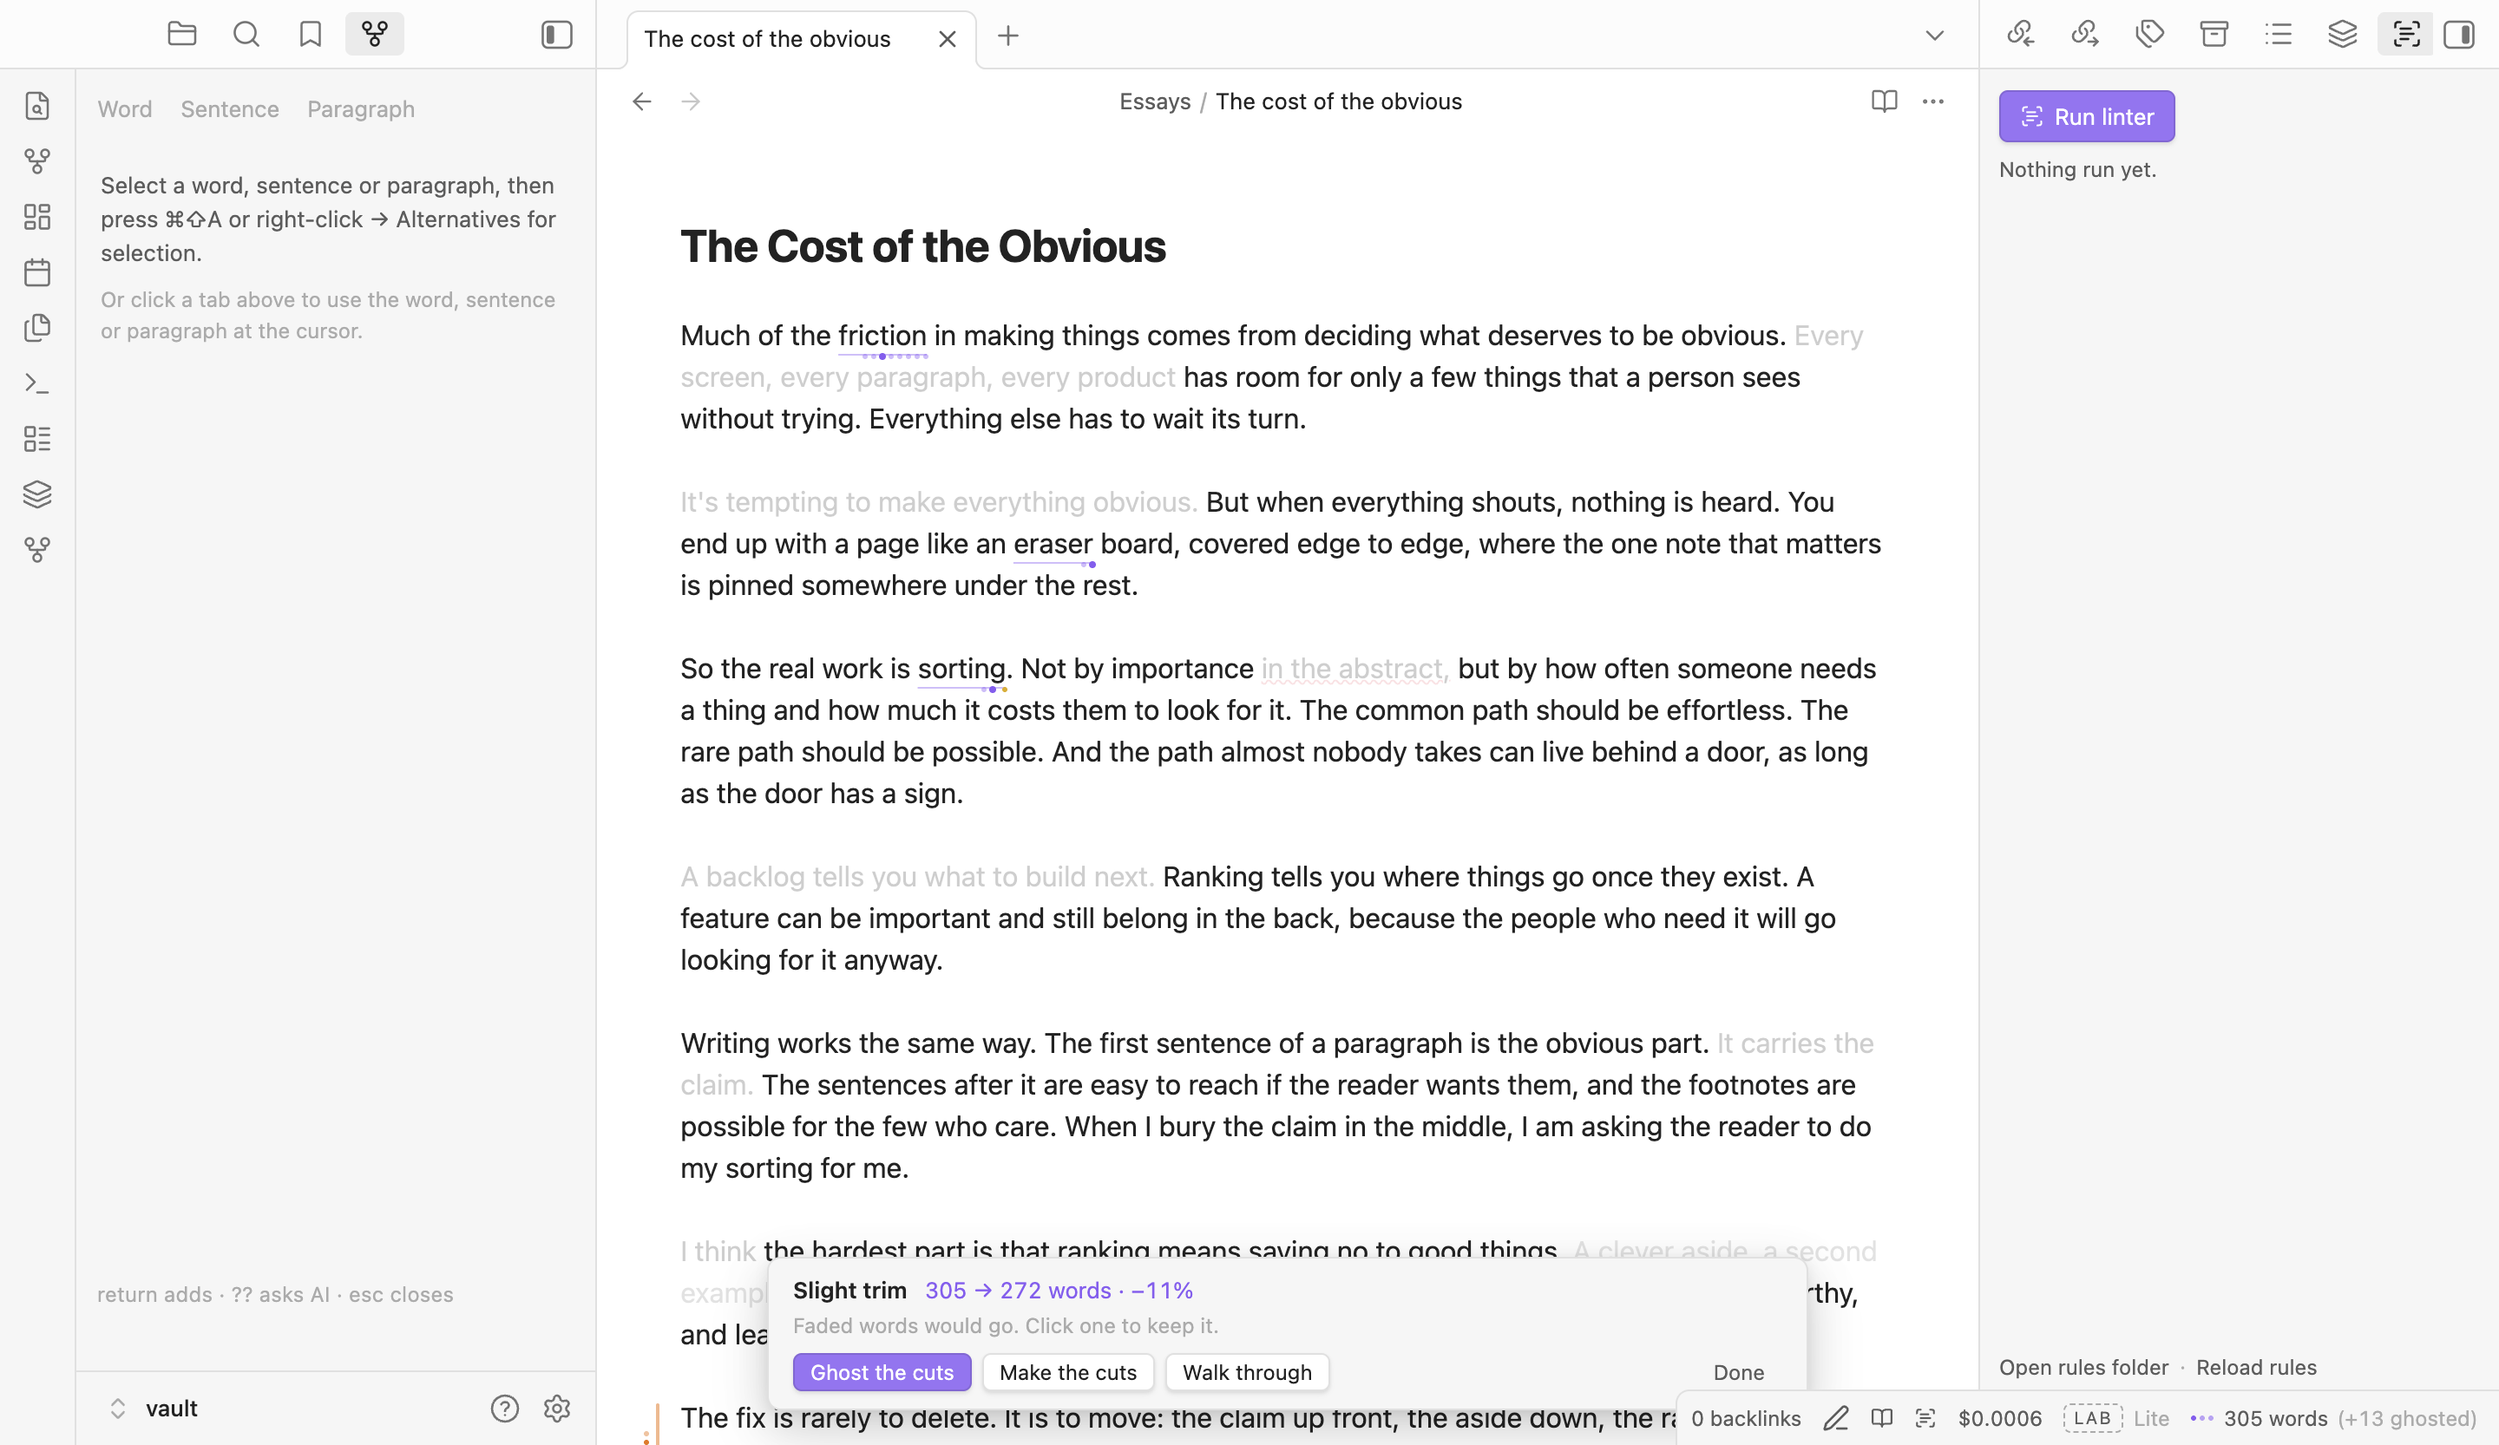
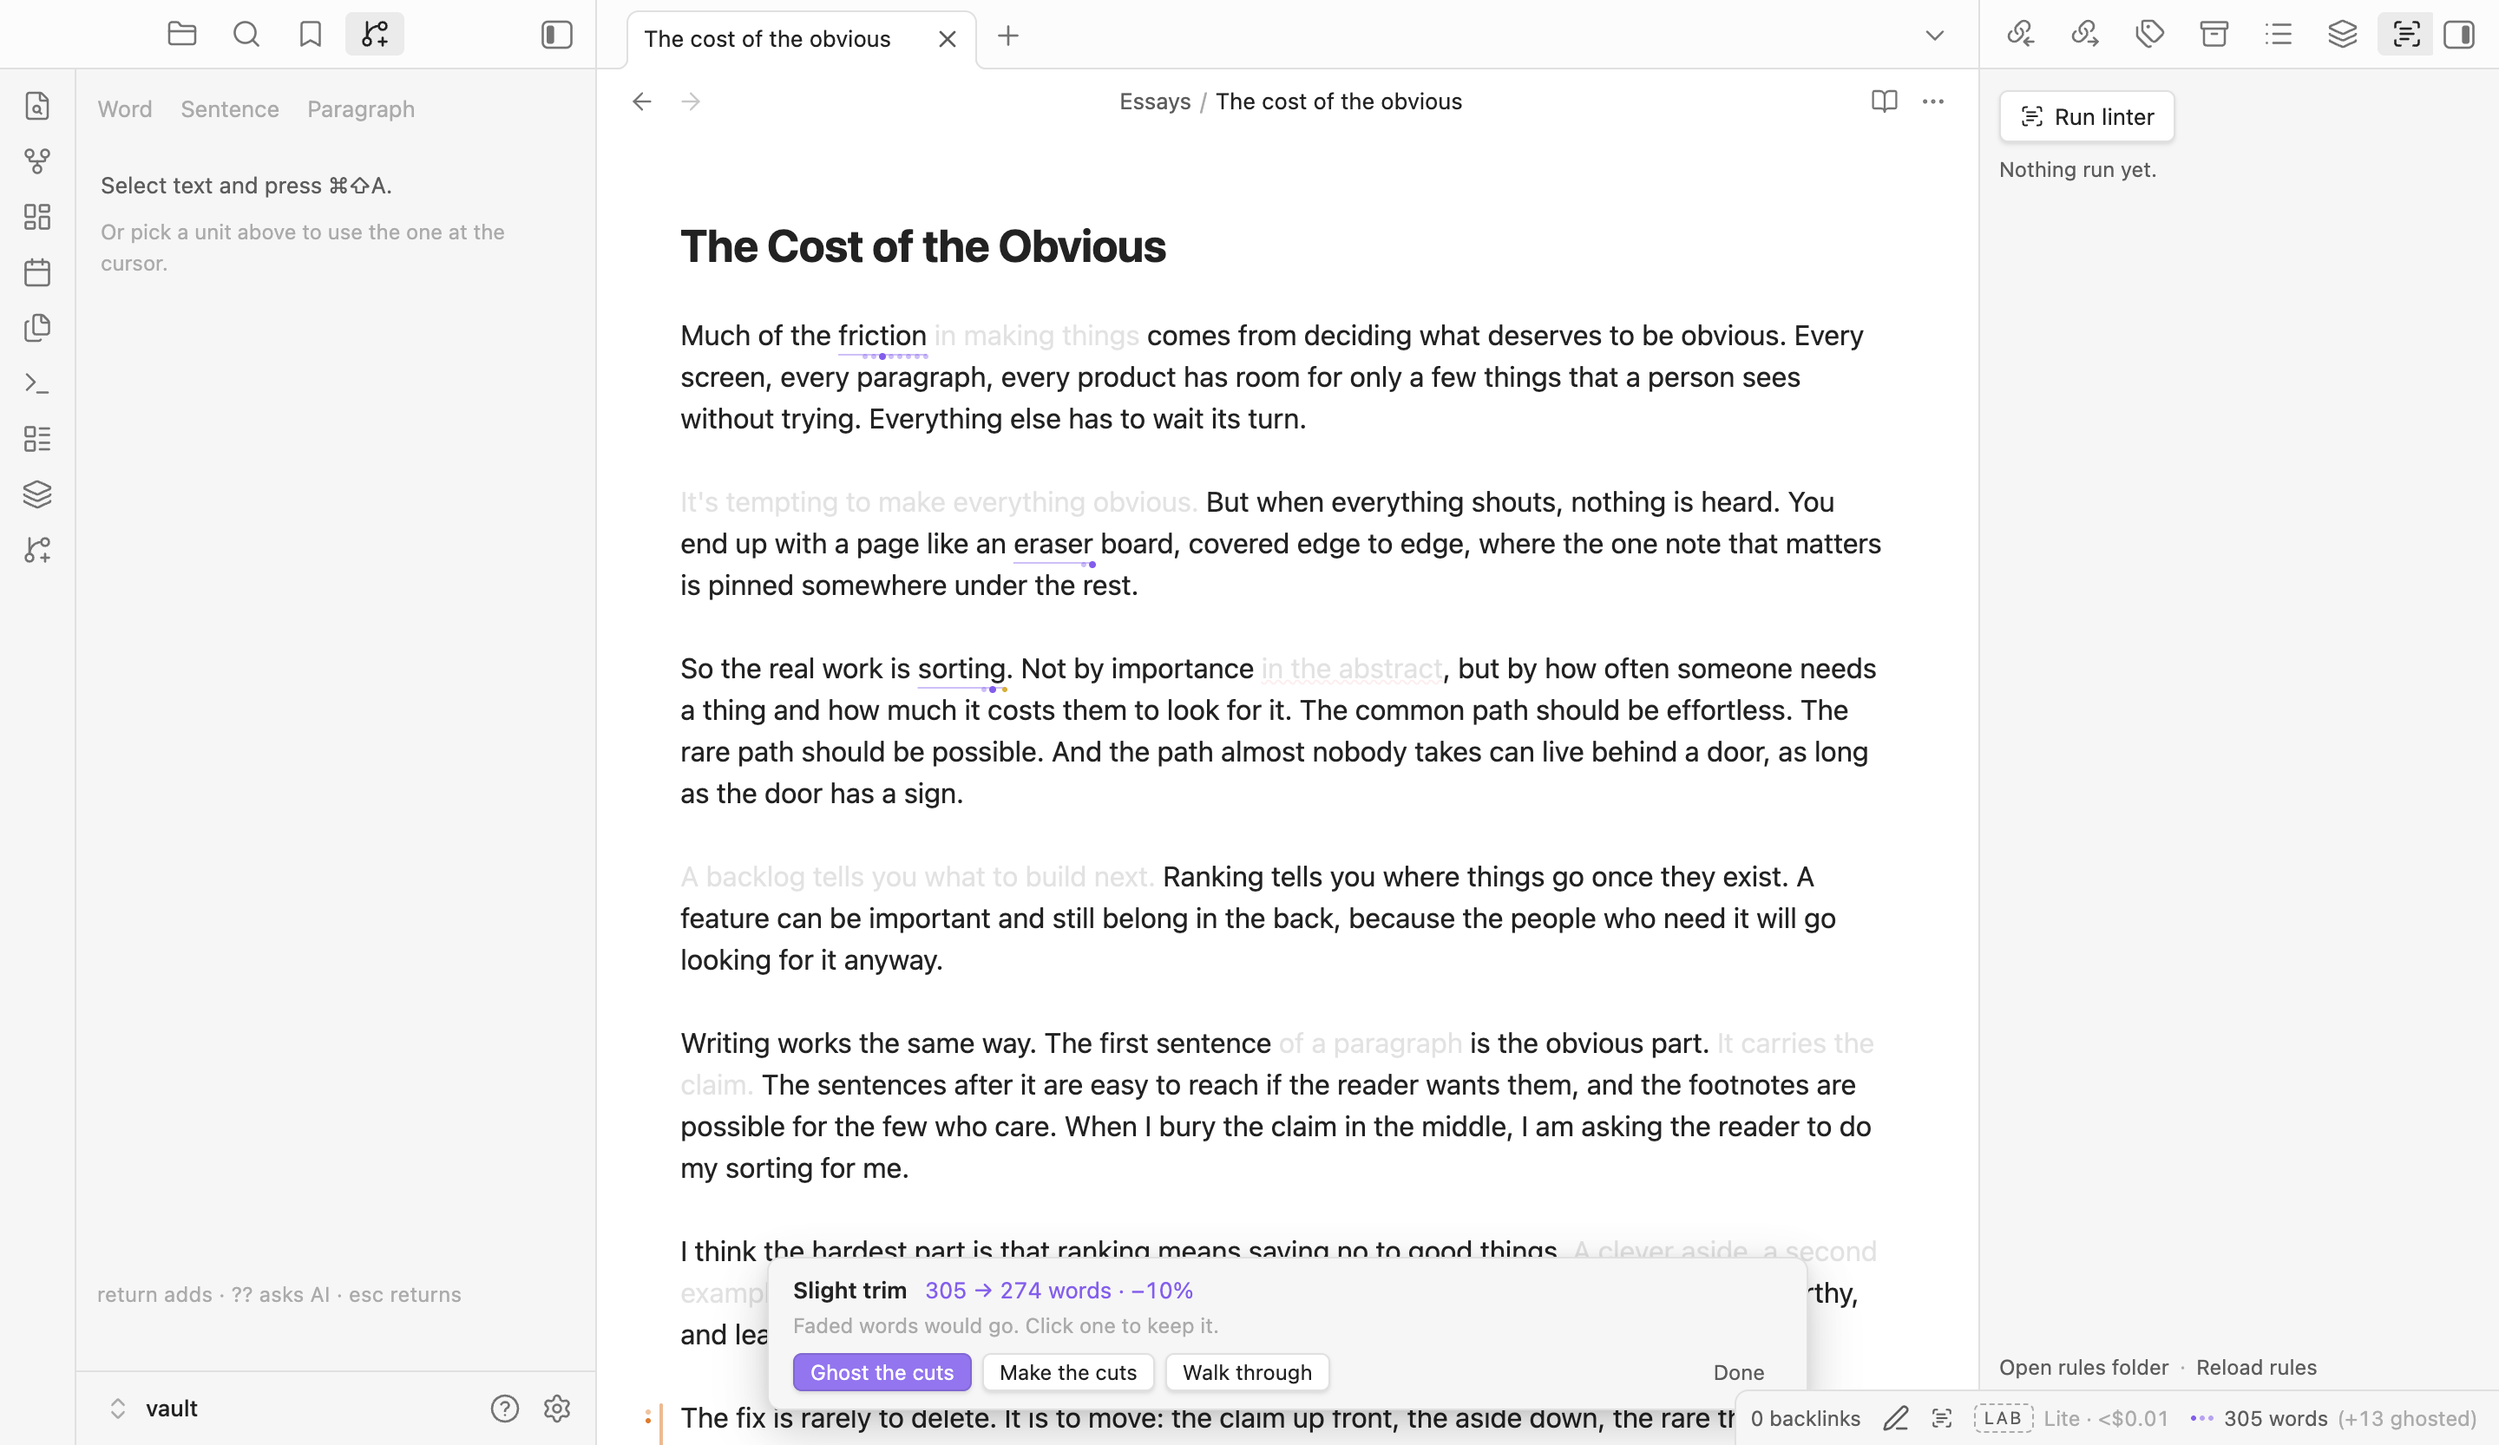
Refresh untouched built-in rule files on upgrade, docs and screenshots

diff --git a/src/plugin/linterService.ts b/src/plugin/linterService.ts
@@ -23,6 +23,8 @@ import type { NoteController } from "./noteController";
 const JEV_CONCURRENCY = 6;
 const LLM_JUDGMENT_BATCH = 40;
 const LIVE_LINT_DELAY_MS = 900;
+/** Remembers the built-in rule files as written, to tell untouched ones from edited ones. */
+const BUILTIN_RECORD = ".builtin-rules.json";
 
 /**
  * Runs the writing linter on demand: free local rules instantly, then
@@ -58,16 +60,17 @@ export class LinterService {
 		return this.rules.filter((rule) => !disabled.has(rule.id));
 	}
 
-	/** Reads rule files, writing the built-ins on first run so they can be edited. */
+	/**
+	 * Reads rule files. Built-ins are written to the folder so they can be
+	 * edited; a built-in file the user never changed is refreshed when Vikalp
+	 * ships a better version of that rule.
+	 */
 	async loadRules() {
 		const adapter = this.app.vault.adapter;
 		const dir = this.rulesDir;
 		const errors: string[] = [];
 		try {
-			if (!(await adapter.exists(dir))) {
-				await adapter.mkdir(dir);
-				for (const file of BUILTIN_RULE_FILES) await adapter.write(`${dir}/${file.fileName}`, file.yaml);
-			}
+			await this.syncBuiltinFiles(dir);
 			const { files } = await adapter.list(dir);
 			const fromDisk = new Map<string, Rule>();
 			for (const file of files.filter((name) => /\.ya?ml$/i.test(name))) {
@@ -87,6 +90,23 @@ export class LinterService {
 		}
 		this.ruleErrors = errors;
 		this.patchRun({ ruleErrors: errors });
+	}
+
+	private async syncBuiltinFiles(dir: string) {
+		const adapter = this.app.vault.adapter;
+		if (!(await adapter.exists(dir))) await adapter.mkdir(dir);
+		const recordPath = `${dir}/${BUILTIN_RECORD}`;
+		const written: Record<string, string> = (await adapter.exists(recordPath)) ? JSON.parse(await adapter.read(recordPath)) : {};
+		for (const file of BUILTIN_RULE_FILES) {
+			const path = `${dir}/${file.fileName}`;
+			const exists = await adapter.exists(path);
+			const untouched = exists && written[file.fileName] !== undefined && (await adapter.read(path)) === written[file.fileName];
+			if ((!exists && written[file.fileName] === undefined) || (untouched && written[file.fileName] !== file.yaml)) {
+				await adapter.write(path, file.yaml);
+				written[file.fileName] = file.yaml;
+			}
+		}
+		await adapter.write(recordPath, JSON.stringify(written, null, "\t"));
 	}
 
 	async reloadRules() {
@@ -423,7 +443,7 @@ export class LinterService {
 		}
 		const label = await promptText(this.app, {
 			title: `Flag “${phrase.length > 40 ? `${phrase.slice(0, 39)}…` : phrase}”`,
-			label: "Rule name (an existing one adds the phrase to it)",
+			label: "Add it to the rule",
 			value: "Pet peeves",
 			confirmLabel: "Add rule",
 		});

diff --git a/docs/using-vikalp.md b/docs/using-vikalp.md
@@ -17,7 +17,7 @@ The word count in the status bar is also the switch. Click it to show or hide Vi
 1. Select a word, phrase, sentence or paragraph. Press **⌘⇧A** (or right-click → *Alternatives for selection*). A partial word grows to the whole word.
 2. The Alternatives panel opens on the left with the cursor in its input. Type a version and press **Return**. It shows in the note straight away.
 3. Add as many as you like. **↑/↓** in the panel swaps the version in the note as you go.
-4. **Esc** goes back to the note.
+4. **Esc** goes back to the note. A span you never gave a second version quietly disappears.
 
 To cycle in the note:
 
@@ -40,7 +40,7 @@ A paragraph span can contain word spans. If you switch to a paragraph version th
 - Select text and press **⌘⇧G**, or type **??** in the panel input and press Return, or click **Ask AI**.
 - Options stream in marked with a small robot. Your showing version never changes; you pick.
 - Each AI version remembers which model wrote it (hover it in the panel).
-- *Remove AI versions* clears them from a span.
+- *Remove AI versions* clears them from a span. AI versions aren't part of undo, so ⌘Z never steps through them.
 
 ## Ghosting
 
@@ -61,7 +61,7 @@ A side panel for writing you cut but want nearby. Each note has its own.
 
 Click the lint icon in the status bar, the **Run linter** button in the Lint panel, or run *Vikalp: Run linter*. Free local rules finish at once. Judgment rules (awkward, LinkedIn voice, AI-sounding paragraphs, and so on) fill in as Jev answers.
 
-Hover a mark to see which rules it hit, and fix or ignore it. Click a hit in the panel to jump to it.
+Hover a mark to see which rules it hit, and fix or ignore it. Click a hit in the panel to jump to it. Marks made by a model (Jev or an LLM) carry an **AI** label and a faint dashed underline.
 
 Rules are YAML files you can edit and add to. Select a phrase you hate and run *New rule from selection* to flag it everywhere from now on. See [rules.md](rules.md).
 
@@ -69,7 +69,7 @@ Rules are YAML files you can edit and add to. Select a phrase you hate and run *
 
 Click **Lab** in the status bar.
 
-- **Model**: Lite, Medium or Heavy. Applies to every AI action. The status bar shows the current mode.
+- **Model**: Lite, Medium or Heavy. Applies to every AI action. The status bar shows the current mode next to **Lab**.
 - **Mark** passes add marks you can review in the Lint panel: typos and punctuation (with Apply / Ignore and *Apply all*), weakest sentences, sentences that run long, convoluted sentences, words that don't fit the tone, and hedges and filler.
 - **Trim** levels fade the words the model would cut, from ~10% to ~50%. Click a faded passage to keep it. Then **Ghost the cuts** (nothing is deleted), **Make the cuts**, or **Walk through** them one at a time with **K**eep, **C**ut, **S**kip. **Done** discards what's left. Switching levels keeps the passages you chose to keep.
 
@@ -81,7 +81,7 @@ The model may only quote your own text. Anything it can't quote exactly is dropp
 
 ## Cost
 
-The status bar shows this session's AI spend. Click it for a log of every call: what it was for, the model, tokens and cost.
+The status bar shows this session's AI spend next to the model mode. The Lab popover links to a log of every call: what it was for, the model, tokens and cost. Each linter run also shows its own cost in the Lint panel.
 
 ## Hotkeys
 

diff --git a/README.md b/README.md
@@ -38,3 +38,8 @@ Copy `main.js`, `manifest.json` and `styles.css` into `<your vault>/.obsidian/pl
 - [Lint rules](docs/rules.md)
 - [Adding a Lab pass](docs/adding-a-lab-pass.md)
 - [Testing](docs/testing.md)
+
+## Notes for your vault
+
+- Vikalp shows its own word count (without ghosted words) in the status bar. If Obsidian's core *Word count* plugin is on, you'll see two counts; turn the core one off in Settings → Core plugins if that bothers you.
+- Sidecars live in `.obsidian/plugins/vikalp/notes/`. See [docs/storage.md](docs/storage.md) for what that means for sync.
